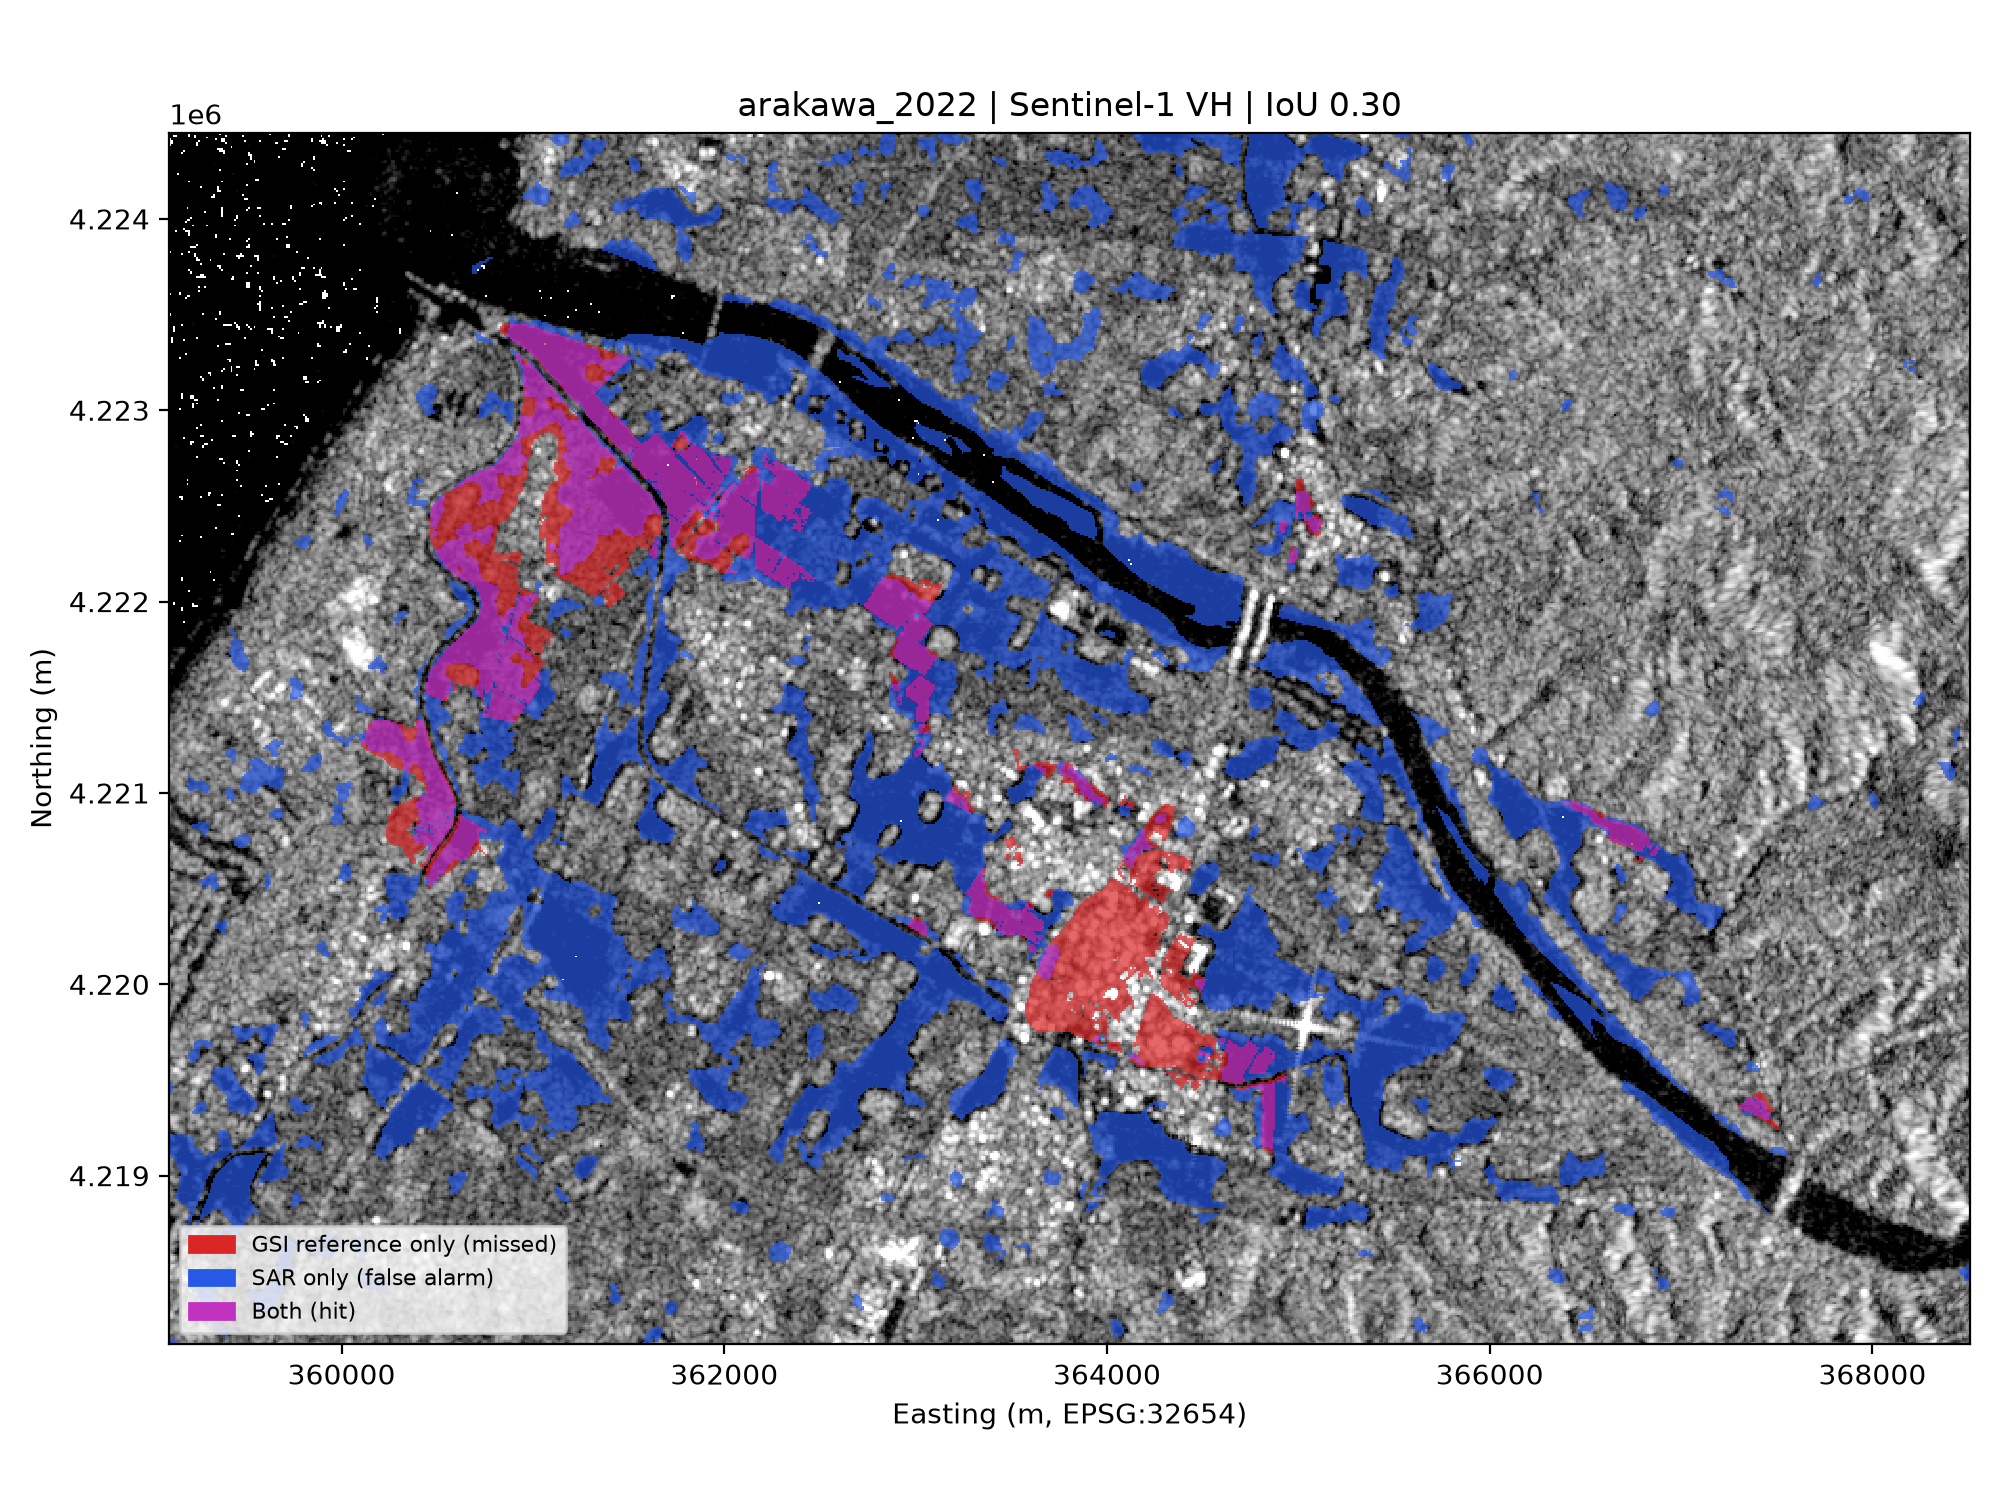
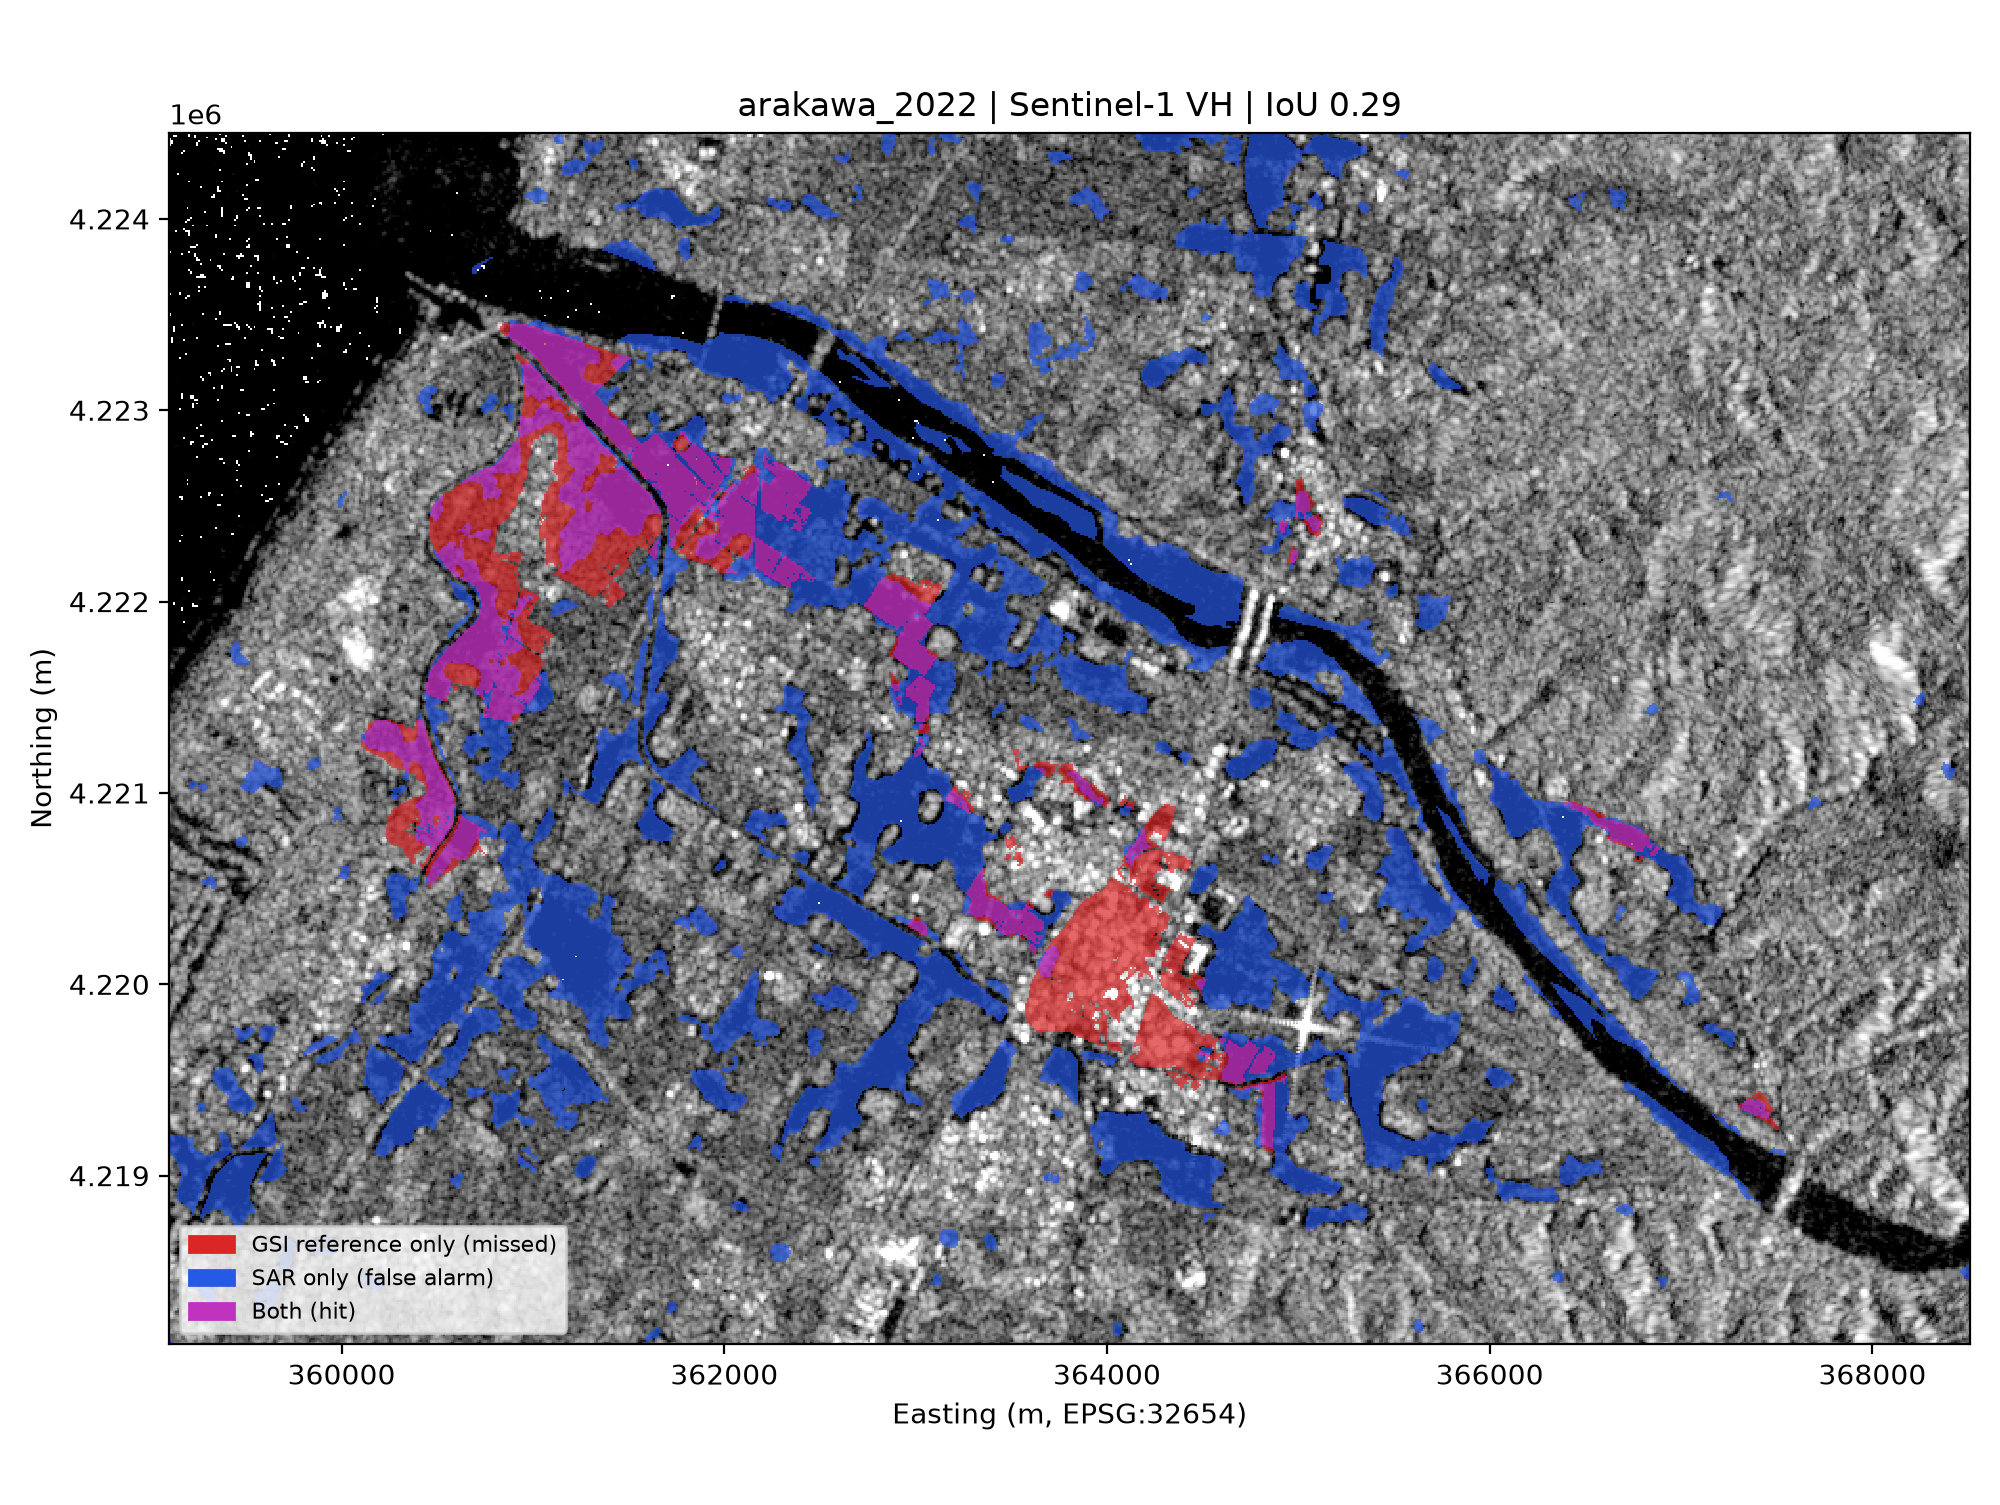
Use UN-SPIDER threshold 1.25 and update README results

diff --git a/README.md b/README.md
@@ -49,13 +49,13 @@ other source with the same file names (e.g. a GEE export, in dB or linear) works
 
 ## Results
 
-Pixel-wise comparison with the GSI survey (inside GSI extent + 300 m), threshold 1.15:
+Pixel-wise comparison with the GSI survey (inside GSI extent + 300 m), threshold 1.25 (UN-SPIDER):
 
 | | IoU | Precision | Recall | Cropland recall | Built-up recall |
 |---|---|---|---|---|---|
-| **VH** (Python) | 0.296 | 0.385 | 0.562 | 72.8 % | 8.3 % |
-| VV (Python) | 0.251 | 0.409 | 0.393 | 53.0 % | 2.8 % |
-| VH (earlier GEE run) | 0.30 | 0.41 | 0.52 | 71.9 % | 7.6 % |
+| **VH** (Python) | 0.295 | 0.408 | 0.515 | 67.5 % | 5.5 % |
+| VV (Python) | 0.246 | 0.425 | 0.370 | 50.2 % | 2.4 % |
+| VH (earlier GEE run) | 0.30 | 0.41 | 0.52 | — | 5.6 % |
 
 The Python port reproduces the GEE result to within a few hundredths, despite a different
 DEM, HAND method and SAR source, so the result is not an artefact of one platform.
@@ -64,7 +64,7 @@ DEM, HAND method and SAR source, so the result is not an artefact of one platfor
 
 Cropland behaves like open water and is mostly detected. Built-up areas (the large red block
 around Fujisawa) are almost entirely missed: double-bounce between water and walls raises
-backscatter instead of lowering it. Full per-class table: `outputs/recall_by_landcover_VH.csv`.
+backscatter instead of lowering it. A full per-class table is written to `outputs/recall_by_landcover_VH.csv` on each run.
 
 ## Design decisions
 
